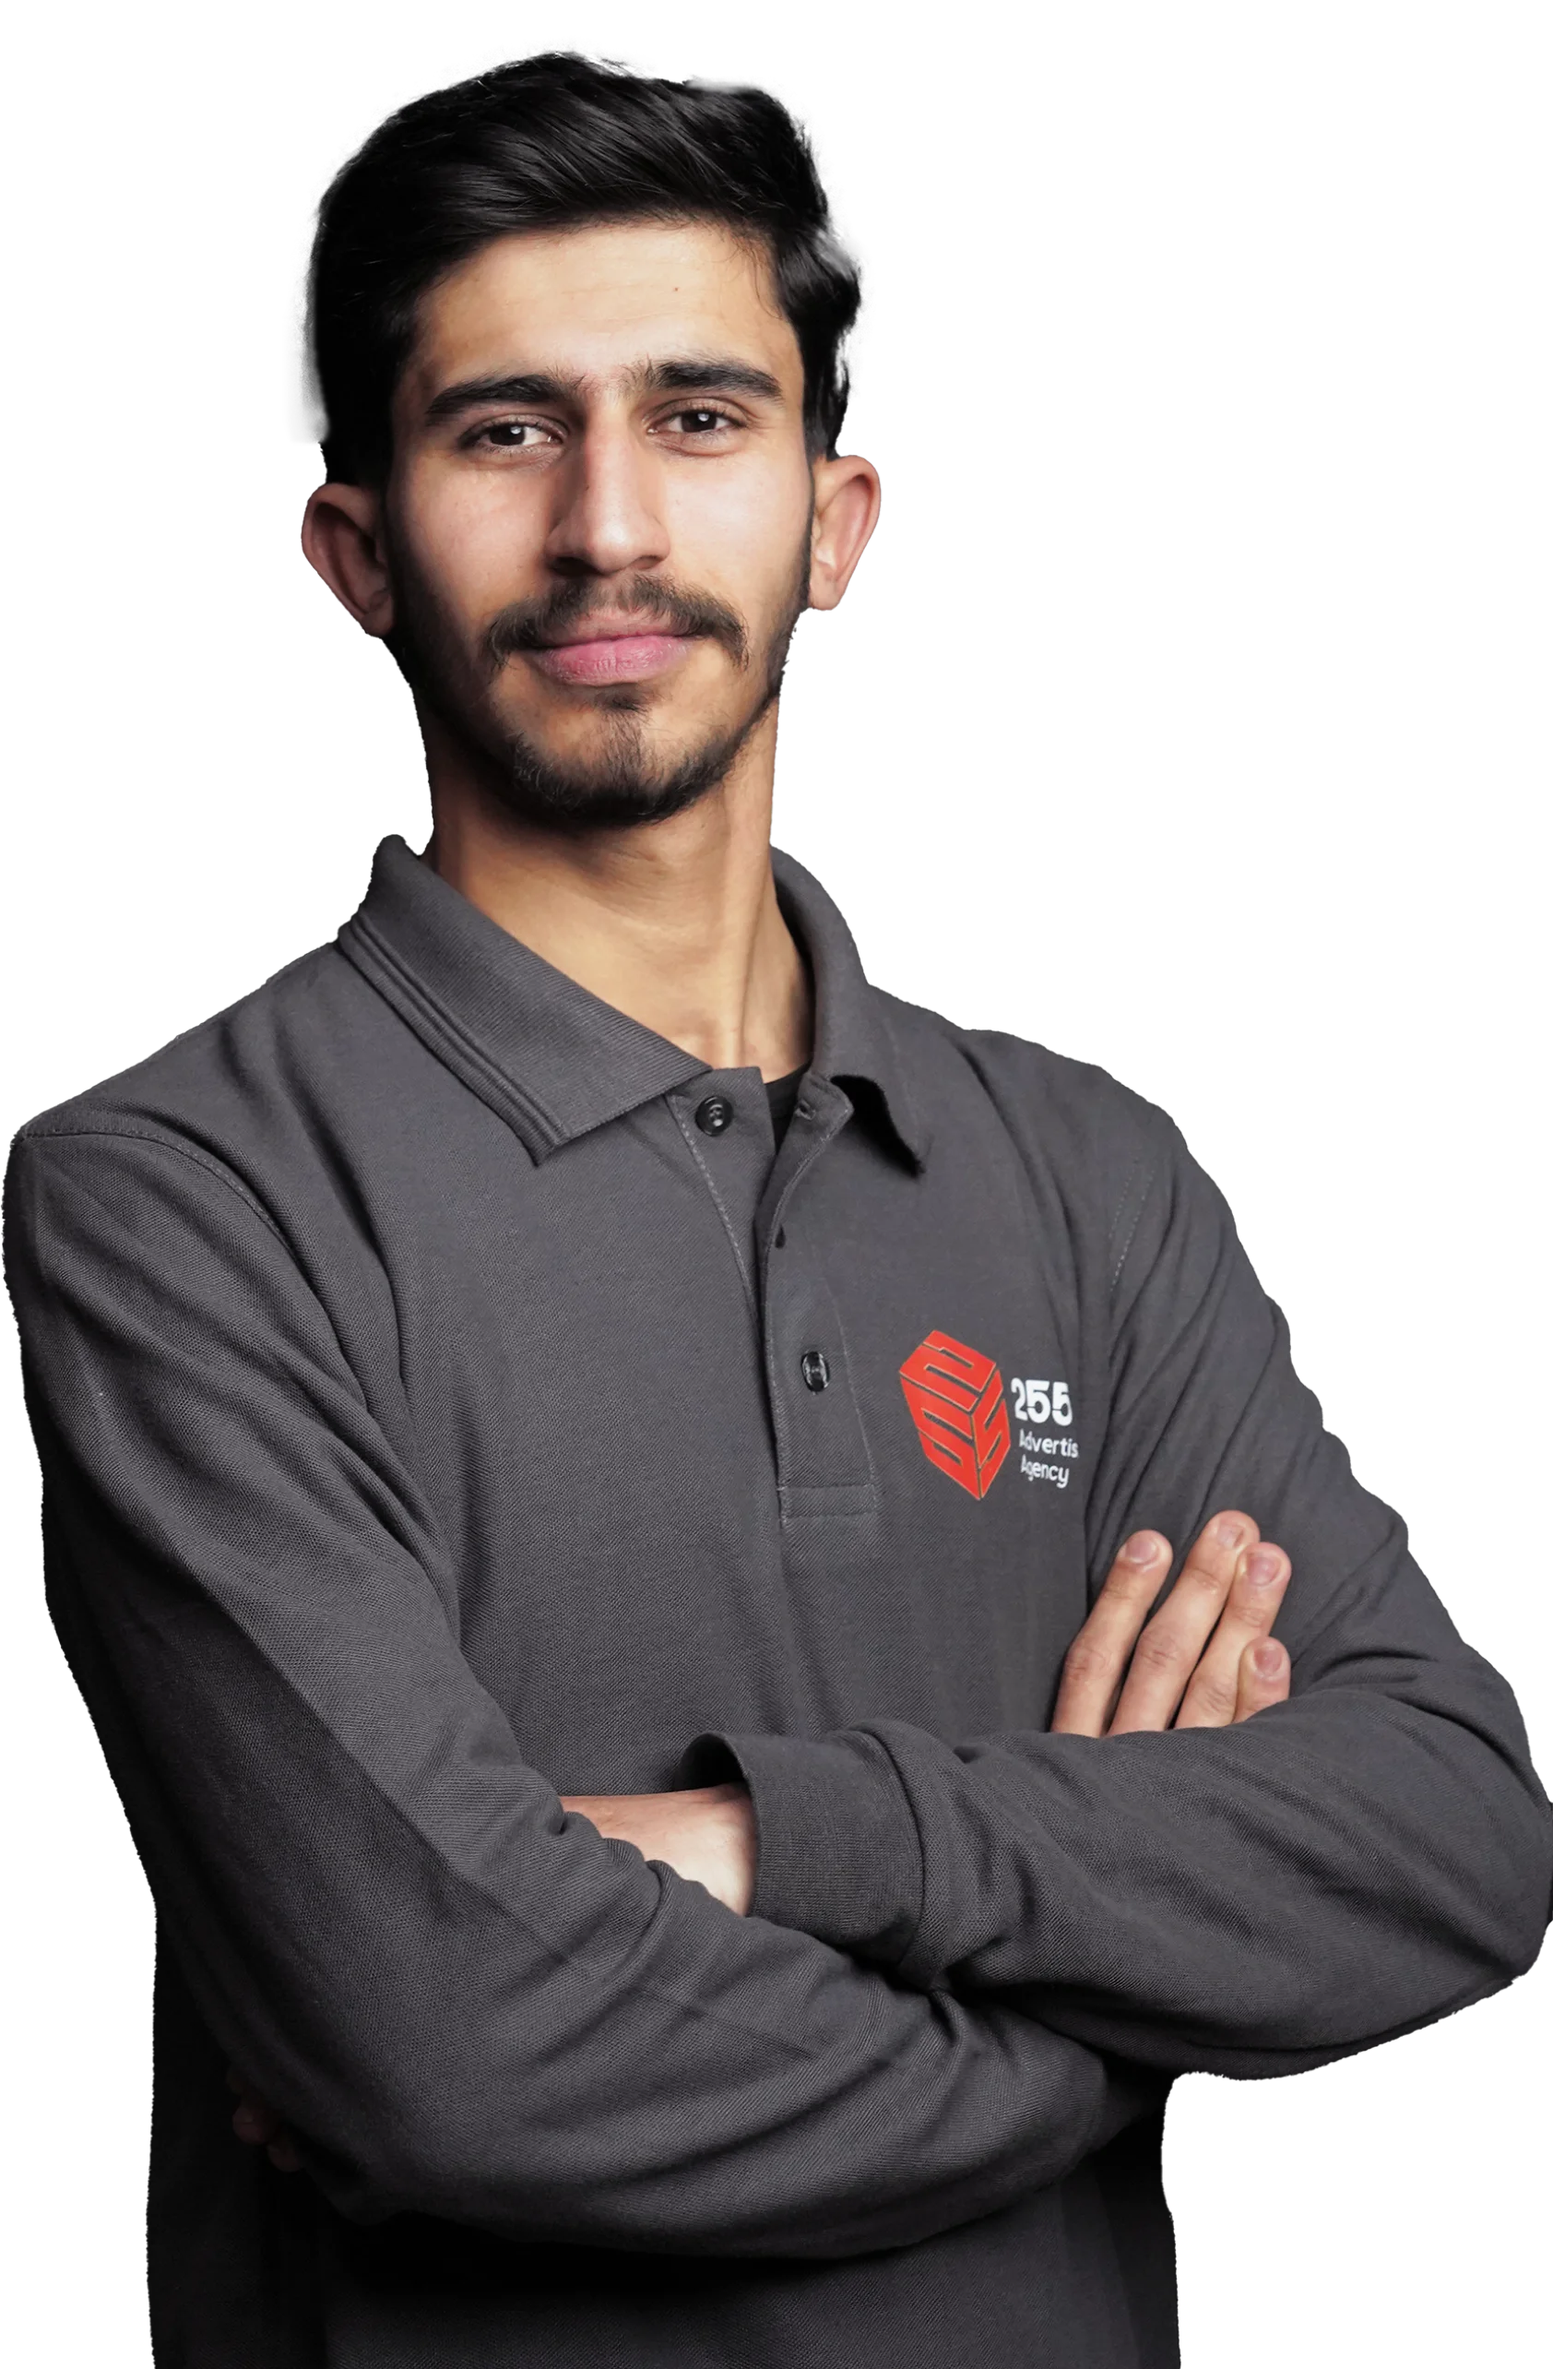
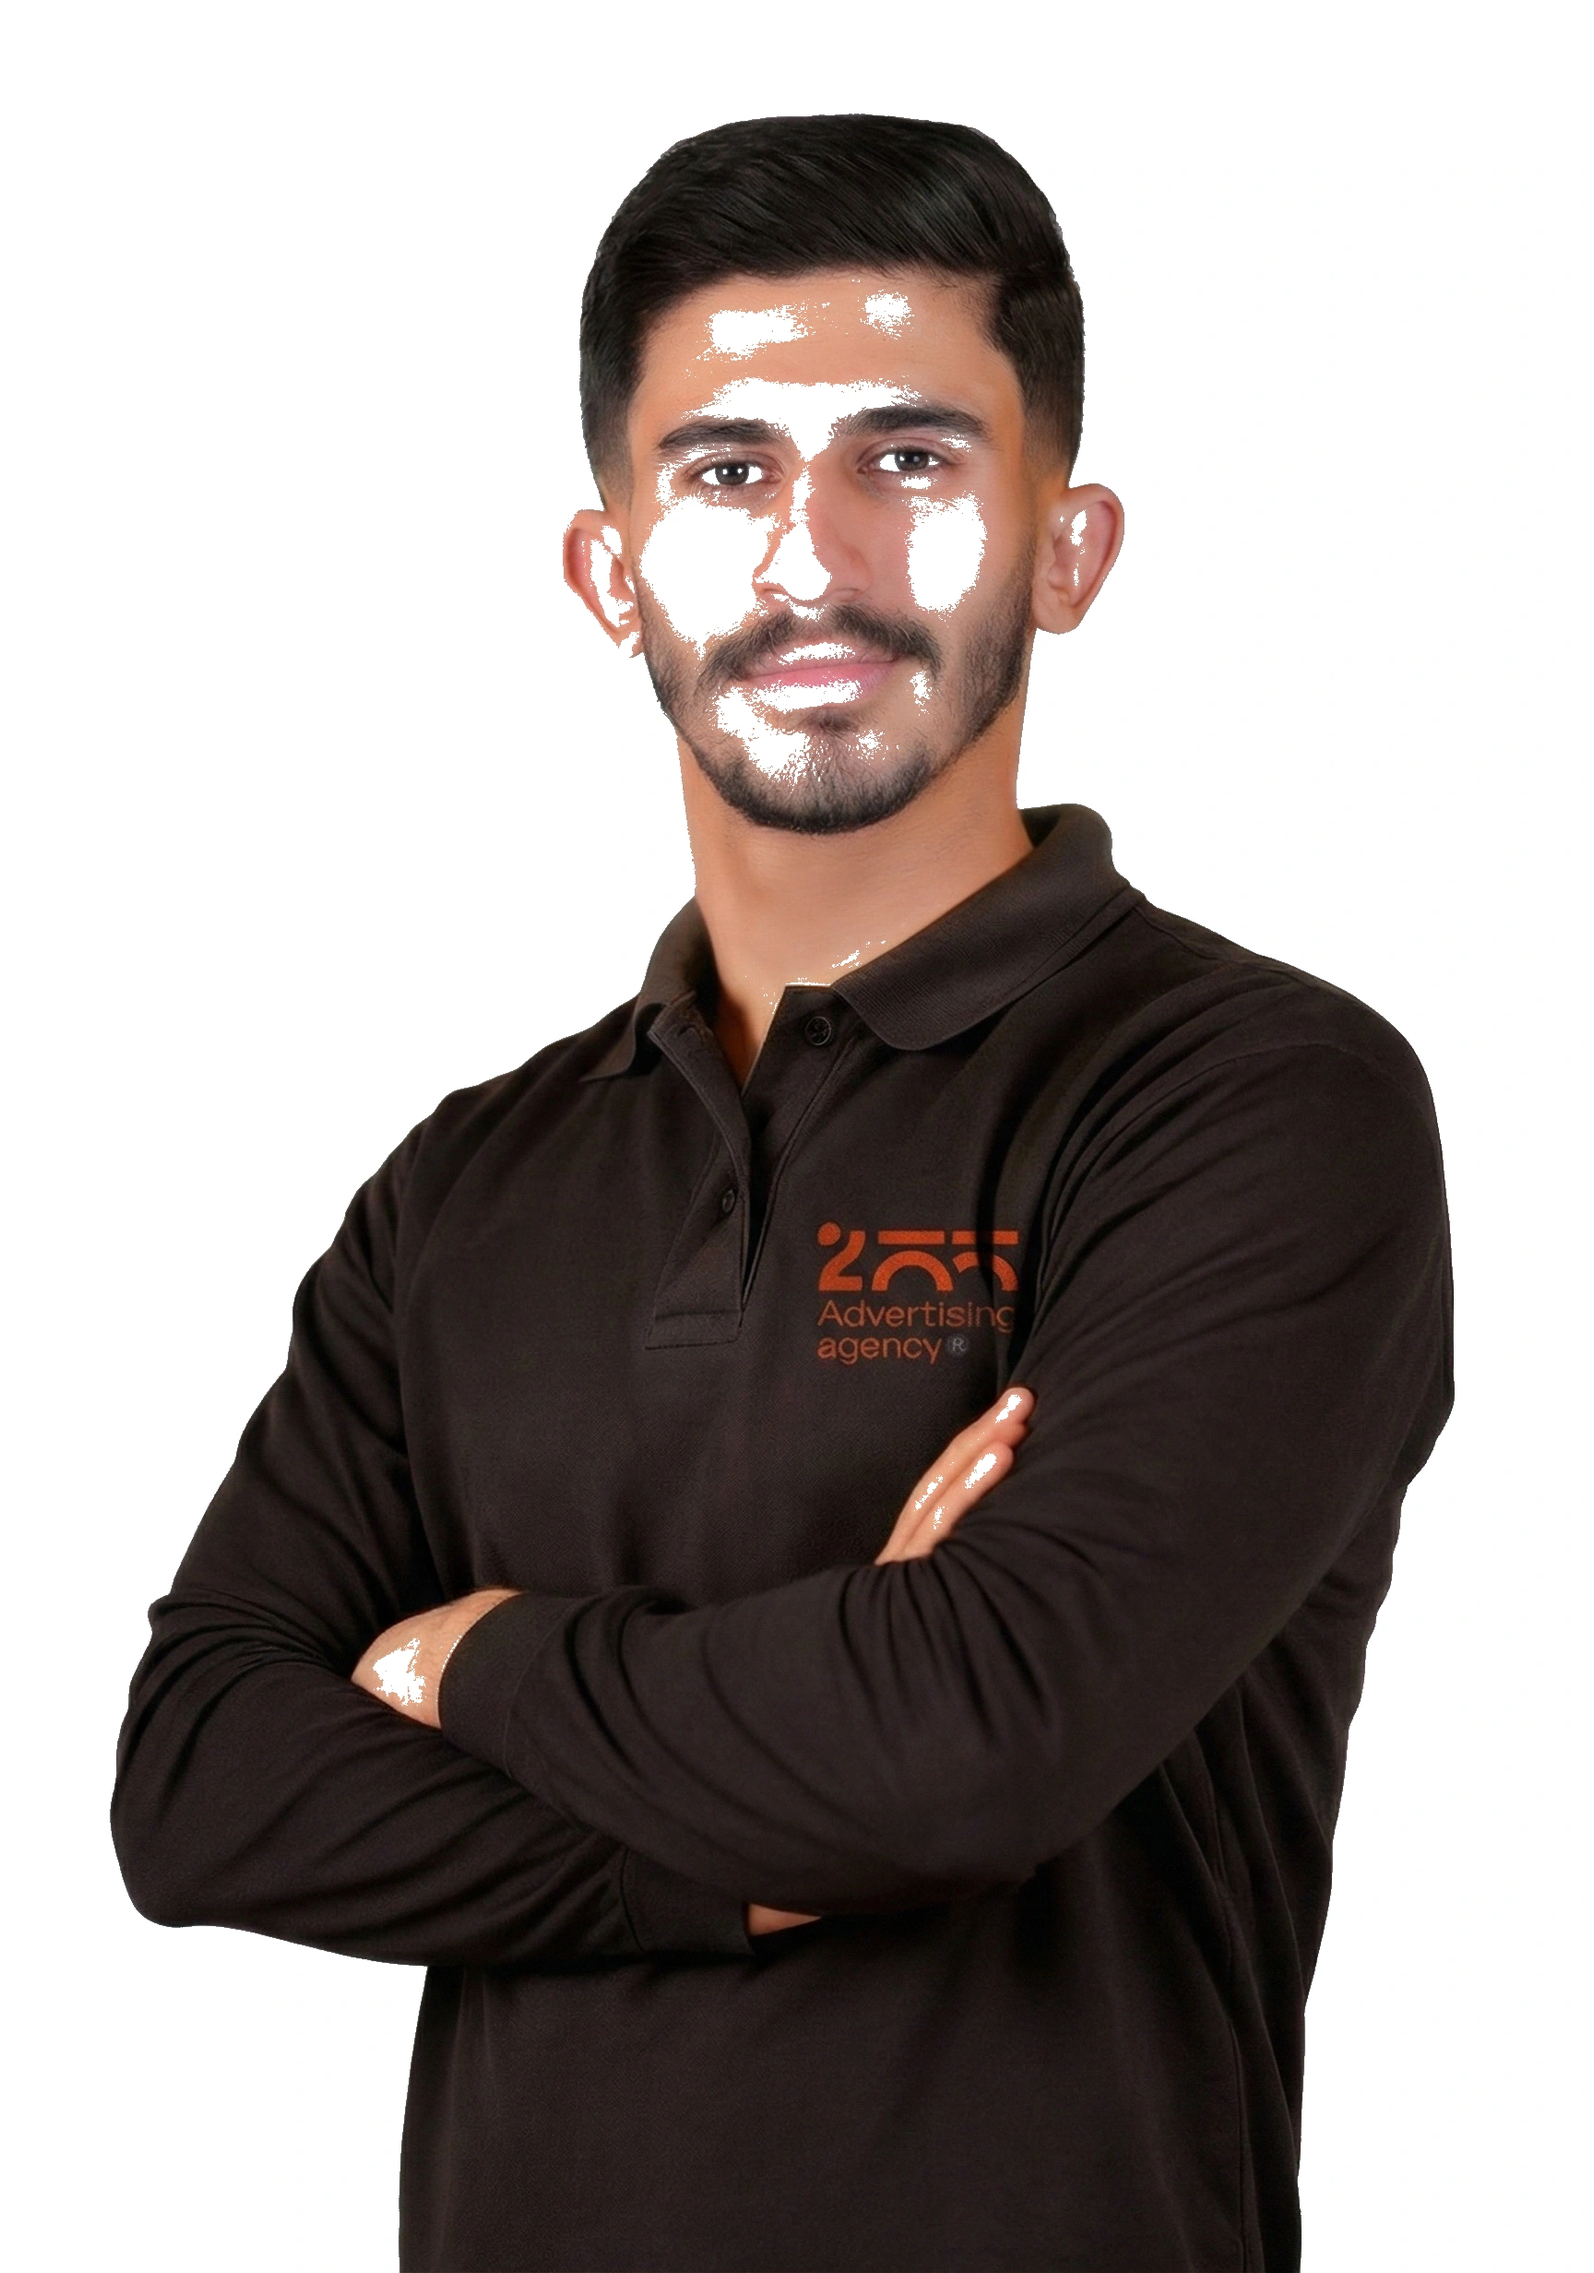
Update team member positions, LinkedIn URLs, and photos

diff --git a/src/data/data.js b/src/data/data.js
@@ -138,15 +138,7 @@ export const teamData = [
     role: "ceo & founder",
     roleKey: "ceo",
     image: "/Staff/Sakher.webp",
-    linkedin: "https://www.linkedin.com/",
-  },
-  {
-    name: "Teama Amer",
-    nameKey: "teamaAmer",
-    role: "Operation Officer",
-    roleKey: "operationOfficer",
-    image: "/Staff/Teama.webp",
-    linkedin: "https://www.linkedin.com/",
+    linkedin: "https://www.linkedin.com/in/sakher-olayyan/",
   },
   {
     name: "Wedad Kurdi",
@@ -154,7 +146,15 @@ export const teamData = [
     role: "Accountant",
     roleKey: "accountant",
     image: "/Staff/wedad.webp",
-    linkedin: "https://www.linkedin.com/",
+    linkedin: "https://www.linkedin.com/in/wedad-kurdi-31038623b/",
+  },
+  {
+    name: "Shatha Naneesh",
+    nameKey: "shathaNaneesh",
+    role: "social media supervisor",
+    roleKey: "socialMediaSupervisor",
+    image: "/Staff/Shatha.webp",
+    linkedin: "https://www.linkedin.com/in/shatha-naneesh-5a343a2b5/",
   },
   {
     name: "Adeeb Abaza",
@@ -162,15 +162,7 @@ export const teamData = [
     role: "design dep supervisor",
     roleKey: "designSupervisor",
     image: "/Staff/adeeb.webp",
-    linkedin: "https://www.linkedin.com/",
-  },
-  {
-    name: "Shatha Nannesh",
-    nameKey: "shathaNannesh",
-    role: "social media supervisor",
-    roleKey: "socialMediaSupervisor",
-    image: "/Staff/Shatha.webp",
-    linkedin: "https://www.linkedin.com/",
+    linkedin: "https://www.linkedin.com/in/adeeb-abaza-07495883/",
   },
   {
     name: "Mohamad Abdalhadi",
@@ -178,7 +170,7 @@ export const teamData = [
     role: "senior graphic designer",
     roleKey: "seniorGraphicDesigner",
     image: "/Staff/Mohammed.webp",
-    linkedin: "https://www.linkedin.com/",
+    linkedin: "https://www.linkedin.com/in/mohamad-abdalhadi-567bb4177/",
   },
   {
     name: "Ezz Jber",
@@ -189,20 +181,28 @@ export const teamData = [
     linkedin: "https://www.linkedin.com/",
   },
   {
+    name: "Rasem Dwikeat",
+    nameKey: "rasemDwikeat",
+    role: "Production Dep Supervisor",
+    roleKey: "productionDepSupervisor",
+    image: "/Staff/rasem.webp",
+    linkedin: "https://www.linkedin.com/in/rasem-dwikat-748517393/",
+  },
+  {
     name: "Dana Ghazi",
     nameKey: "danaGhazi",
     role: "producer",
     roleKey: "producer",
     image: "/Staff/dana.webp",
-    linkedin: "https://www.linkedin.com/",
+    linkedin: "https://www.linkedin.com/in/dana-ghazi-339a98226/",
   },
   {
-    name: "Rasem Dwikeat",
-    nameKey: "rasemDwikeat",
-    role: "producer",
-    roleKey: "producer",
-    image: "/Staff/rasem.webp",
-    linkedin: "https://www.linkedin.com/",
+    name: "Teama Amer",
+    nameKey: "teamaAmer",
+    role: "Operation Officer",
+    roleKey: "operationOfficer",
+    image: "/Staff/Teama.webp",
+    linkedin: "https://www.linkedin.com/in/teamaamer/",
   },
 ];
 

diff --git a/fix_rasem_bg.py b/fix_rasem_bg.py
@@ -1,0 +1,26 @@
+from PIL import Image
+import numpy as np
+
+# Load Rasem's image
+img = Image.open('/Users/Teamaa/Desktop/255-new/public/Staff/rasem.webp')
+img = img.convert('RGB')
+data = np.array(img)
+
+# Get RGB channels
+r, g, b = data[:,:,0], data[:,:,1], data[:,:,2]
+
+# Very aggressive mask - anything that's not clearly dark/colored should be white
+# This will catch all the gray background
+mask = (r > 140) & (g > 140) & (b > 140)
+
+# Replace with pure white (255, 255, 255)
+data[mask, 0] = 255  # Red channel
+data[mask, 1] = 255  # Green channel
+data[mask, 2] = 255  # Blue channel
+
+# Convert back to image
+result = Image.fromarray(data, 'RGB')
+
+# Save as webp with high quality
+result.save('/Users/Teamaa/Desktop/255-new/public/Staff/rasem.webp', 'WEBP', quality=95)
+print("Rasem's photo background converted to pure white successfully!")
